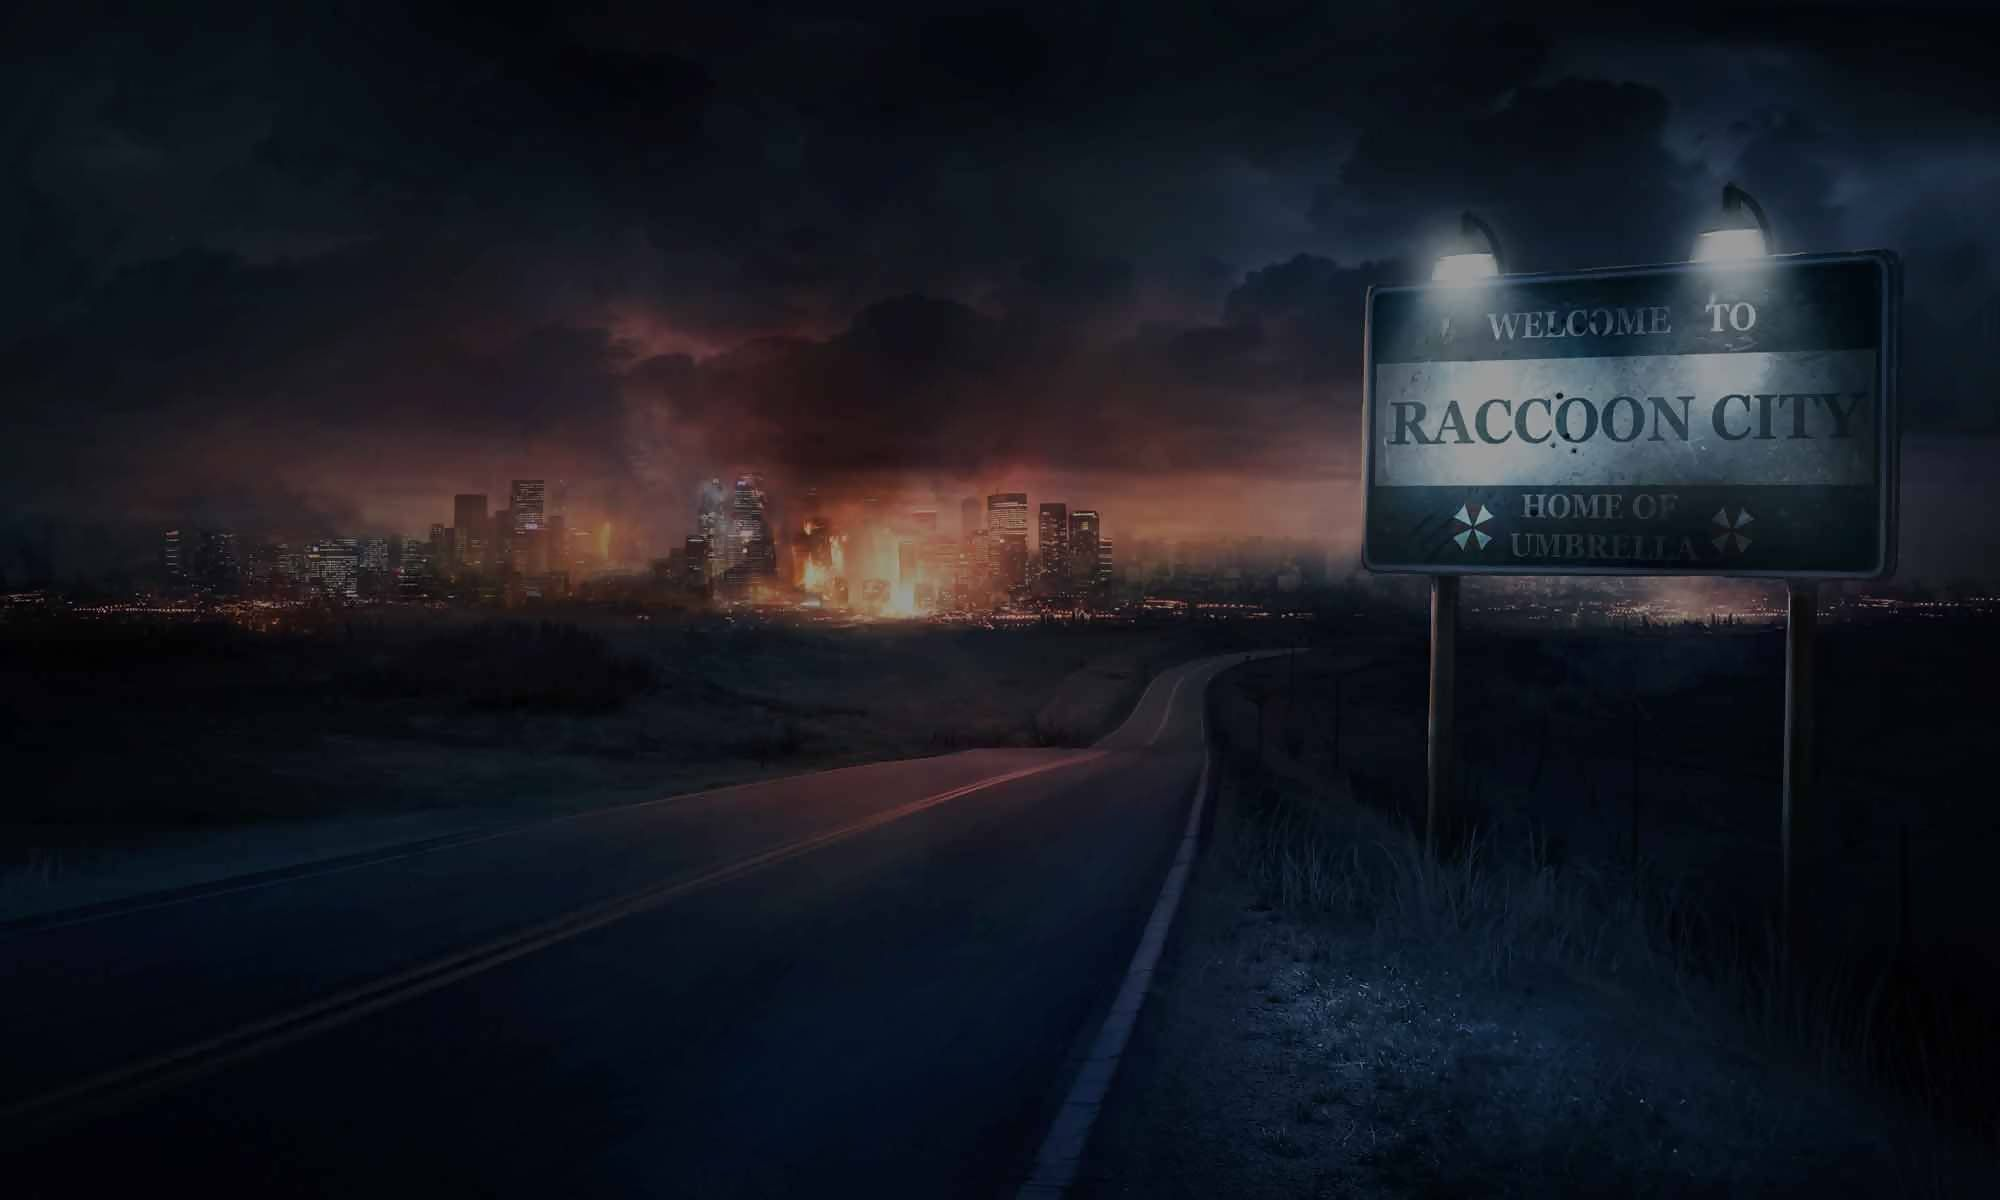
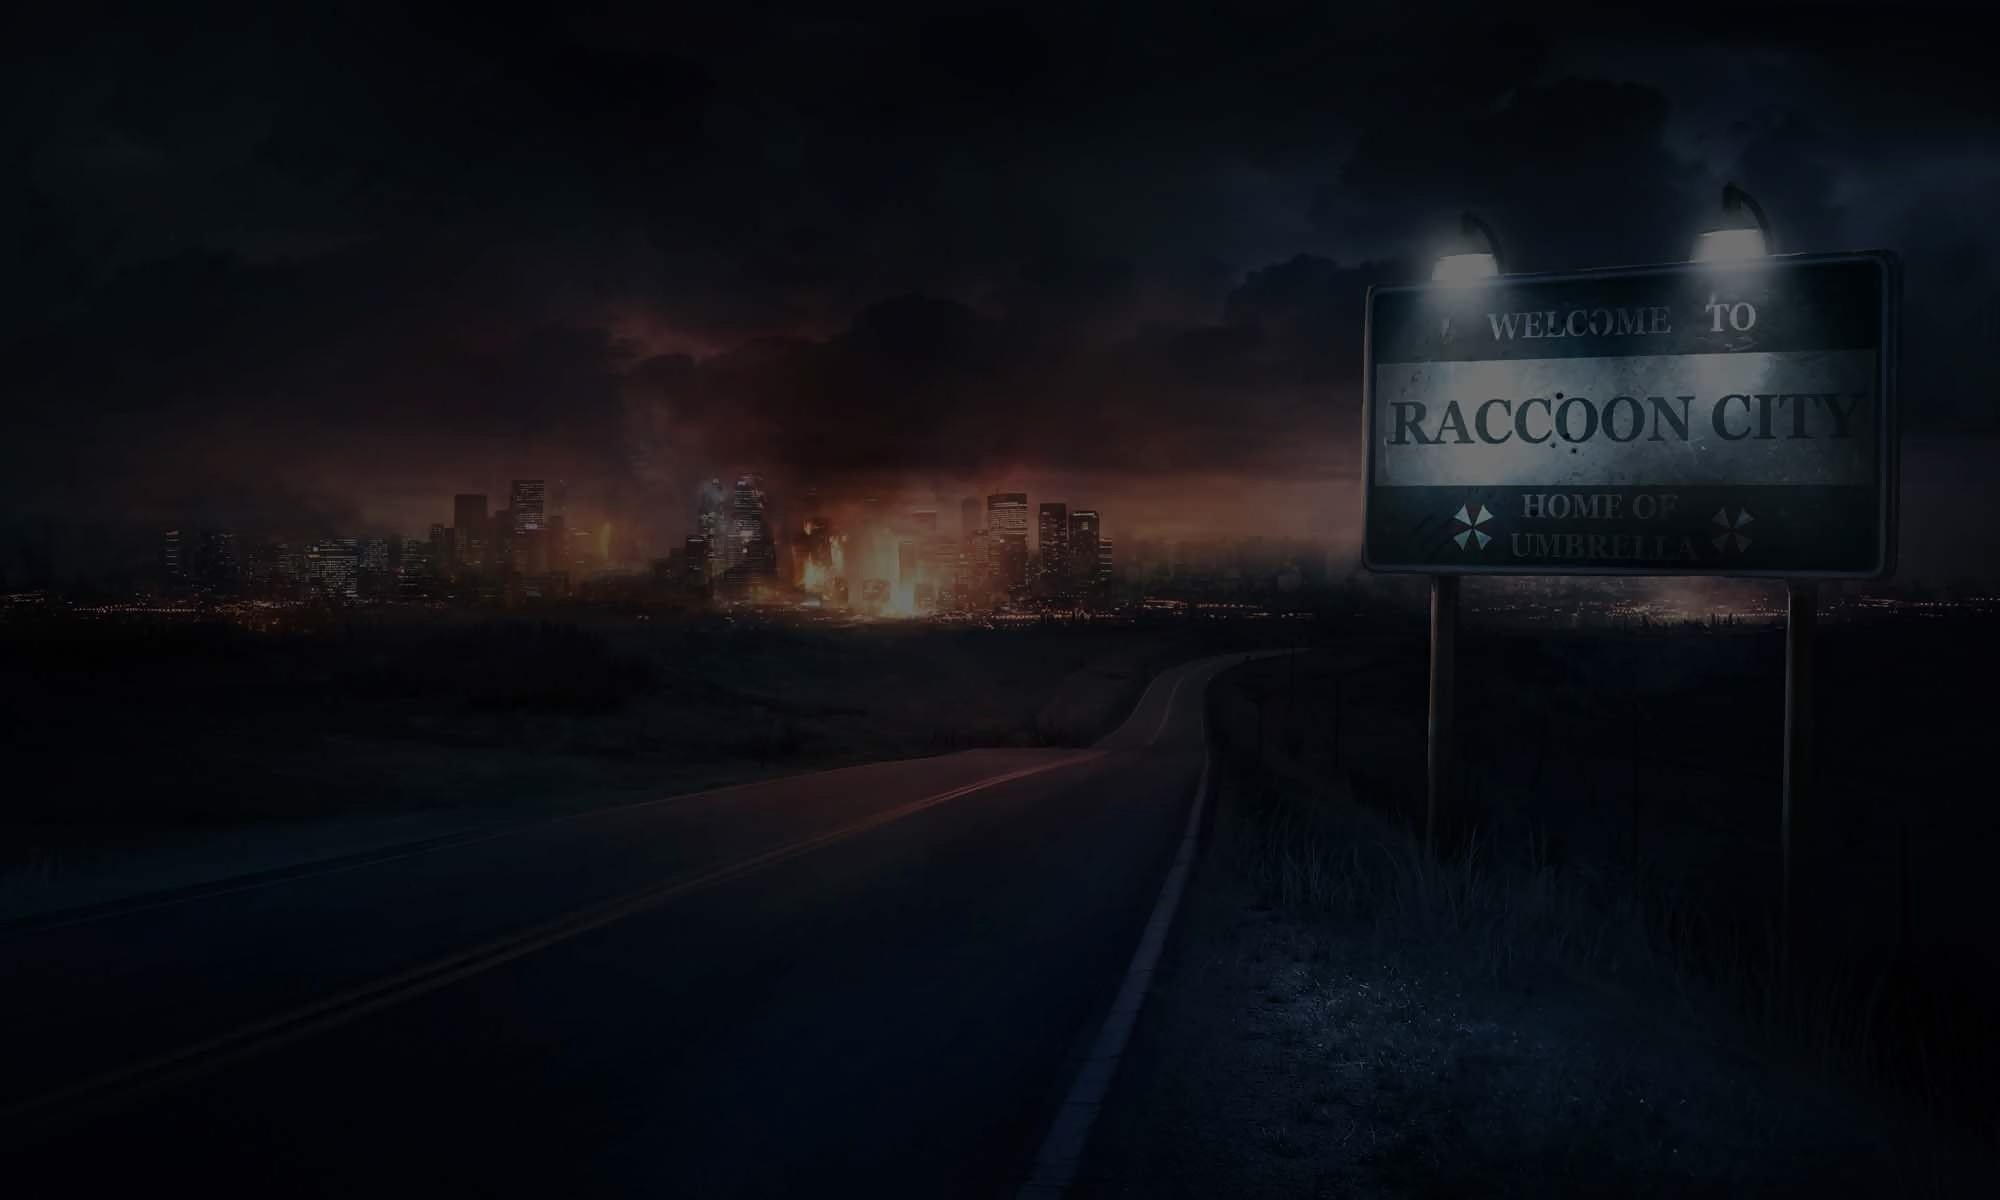
Adicionando imagem de fundo à pagina home

diff --git a/styles/style.css b/styles/style.css
@@ -16,16 +16,19 @@ body {
     flex-direction: column;
     min-height: 100vh;
     background-color: var(--cor-fundo);
+    background-image: url('https://raw.githubusercontent.com/evertonmissiagia/bit-trevoso-site/refs/heads/main/assets/img/background-images/page-home-fundo.jpg');
+    background-repeat: no-repeat;
 }
 
 .header {
-    display: flex;
     padding: 1.5%;
 }
 
 .nav {
+    display: flex;
     font-family: var(--fonte);
     font-size: 22px;
+    gap: 35px;
 }
 
 .nav__items {
@@ -46,7 +49,8 @@ body {
 
 .main__home__texto__abertura {
     display: flex;
-    flex-direction: column;    
+    flex-direction: column;
+    align-items: ;
 }
 
 .footer {
